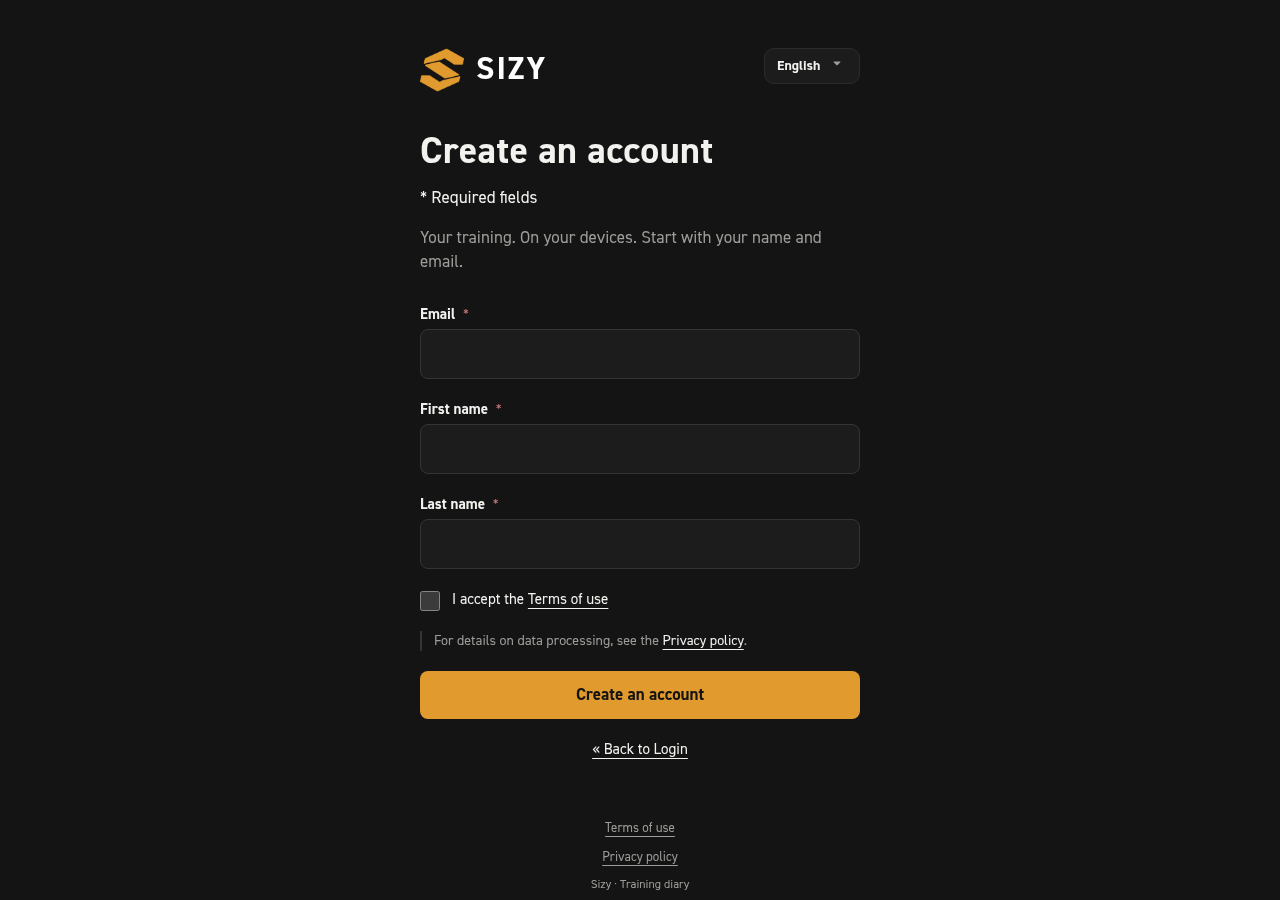
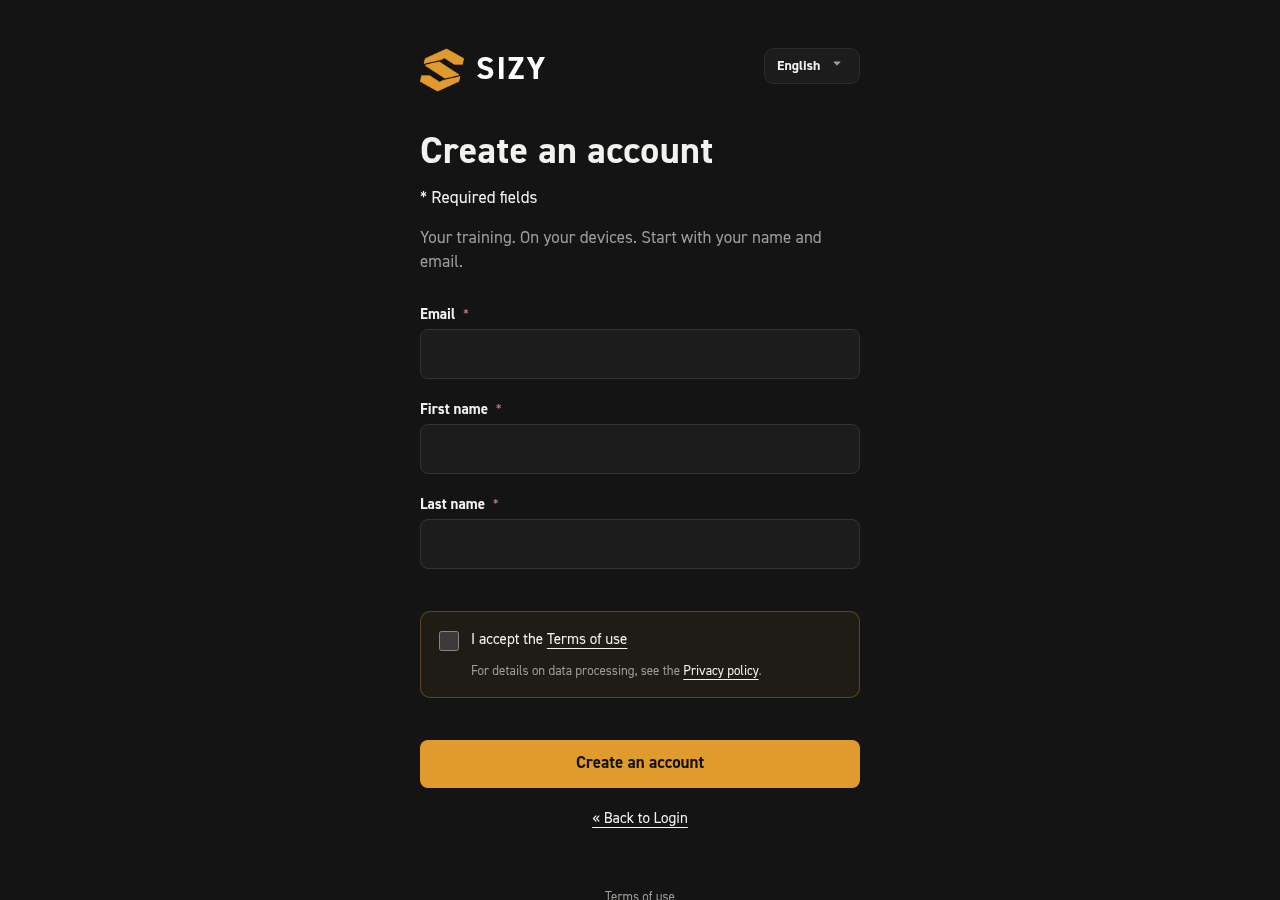
refine legal dialogs and registration consent layout

Changed region(s): [[0.3125, 0.6533, 0.6875, 1.0]]

diff --git a/keycloak/themes/sizy/login/resources/js/legal-modal.js b/keycloak/themes/sizy/login/resources/js/legal-modal.js
@@ -2,34 +2,80 @@
   const scriptUrl = document.currentScript?.src;
   if (!scriptUrl) return;
   const resourceUrl = new URL('../legal/', scriptUrl);
-  const paths = new Map([
-    ['/legal/2026-11-16/terms.html', 'terms.html'],
-    ['/legal/2026-11-16/privacy.html', 'privacy.html'],
-  ]);
+  const imageUrl = new URL('../img/brand-mark.png', scriptUrl);
+  const documents = {
+    terms: { label: 'Соглашение', file: 'terms.html', path: '/legal/2026-11-16/terms.html' },
+    privacy: { label: 'Обработка данных', file: 'privacy.html', path: '/legal/2026-11-16/privacy.html' },
+  };
 
   document.addEventListener('DOMContentLoaded', () => {
     const dialog = document.createElement('dialog');
     dialog.className = 'sizy-legal-modal';
-    dialog.innerHTML = '<div class="sizy-legal-modal-bar"><strong></strong><button type="button" aria-label="Закрыть">×</button></div><iframe title="Документ"></iframe>';
-    const title = dialog.querySelector('strong');
-    const frame = dialog.querySelector('iframe');
-    dialog.querySelector('button').addEventListener('click', () => dialog.close());
+    dialog.setAttribute('aria-label', 'Документы Sizy');
+    dialog.innerHTML = `
+      <div class="sizy-legal-modal-top">
+        <div class="sizy-legal-modal-brand"><img src="${imageUrl.href}" alt="" width="32" height="32"><span>Sizy</span><span class="sizy-legal-modal-divider"></span><span class="sizy-legal-modal-section">Документы</span></div>
+        <button type="button" class="sizy-legal-modal-close" aria-label="Закрыть окно">×</button>
+      </div>
+      <nav class="sizy-legal-modal-tabs" aria-label="Юридические документы">
+        <button type="button" data-kind="terms">Соглашение</button>
+        <button type="button" data-kind="privacy">Обработка данных</button>
+      </nav>
+      <div class="sizy-legal-modal-scroll"><p class="sizy-legal-modal-status">Загружаем документ…</p></div>`;
+    const scroll = dialog.querySelector('.sizy-legal-modal-scroll');
+    const buttons = dialog.querySelectorAll('[data-kind]');
+    let controller;
+    let currentKind;
+
+    async function open(kind) {
+      const documentInfo = documents[kind];
+      if (!documentInfo) return;
+      currentKind = kind;
+      controller?.abort();
+      const request = new AbortController();
+      controller = request;
+      buttons.forEach((button) => {
+        button.classList.toggle('active', button.dataset.kind === kind);
+        if (button.dataset.kind === kind) button.setAttribute('aria-current', 'page');
+        else button.removeAttribute('aria-current');
+      });
+      scroll.scrollTop = 0;
+      scroll.innerHTML = '<p class="sizy-legal-modal-status">Загружаем документ…</p>';
+      if (!dialog.open) dialog.showModal();
+      try {
+        const response = await fetch(new URL(documentInfo.file, resourceUrl), { signal: request.signal });
+        if (!response.ok) throw new Error('Document unavailable');
+        const html = await response.text();
+        const main = new DOMParser().parseFromString(html, 'text/html').querySelector('main');
+        if (!main) throw new Error('Document missing');
+        const article = document.createElement('article');
+        article.className = 'sizy-legal-modal-article';
+        article.innerHTML = main.innerHTML;
+        scroll.replaceChildren(article);
+      } catch {
+        if (!request.signal.aborted) {
+          scroll.innerHTML = `<p class="sizy-legal-modal-status">Не удалось открыть документ. <a href="https://sizylab.ru${documentInfo.path}" target="_blank" rel="noopener noreferrer">Открыть отдельно</a></p>`;
+        }
+      }
+    }
+
+    dialog.querySelector('.sizy-legal-modal-close').addEventListener('click', () => dialog.close());
+    dialog.addEventListener('close', () => controller?.abort());
+    buttons.forEach((button) => button.addEventListener('click', () => open(button.dataset.kind)));
     document.body.append(dialog);
 
     document.addEventListener('click', (event) => {
       if (event.defaultPrevented || event.button !== 0 || event.ctrlKey || event.metaKey || event.shiftKey || event.altKey) return;
       const anchor = event.target.closest?.('a[href]');
       if (!anchor) return;
+      if (anchor.closest('.sizy-legal-modal-status')) return;
       const url = new URL(anchor.href);
-      if (url.origin !== 'https://sizylab.ru') return;
-      const documentName = paths.get(url.pathname);
-      if (!documentName) return;
+      const kind = Object.keys(documents).find((key) =>
+        (url.origin === 'https://sizylab.ru' && url.pathname === documents[key].path) ||
+        (url.origin === resourceUrl.origin && url.pathname === new URL(documents[key].file, resourceUrl).pathname));
+      if (!kind) return;
       event.preventDefault();
-      title.textContent = anchor.textContent.trim();
-      frame.title = title.textContent;
-      frame.src = new URL(documentName, resourceUrl).href;
-      if (!dialog.open) dialog.showModal();
+      if (kind !== currentKind || !dialog.open) open(kind);
     });
-    dialog.addEventListener('close', () => { frame.removeAttribute('src'); });
   });
 })();

diff --git a/keycloak/themes/sizy/login/resources/css/legal-modal.css b/keycloak/themes/sizy/login/resources/css/legal-modal.css
@@ -1,0 +1,46 @@
+.sizy-legal-modal {
+  width: min(920px, calc(100vw - 40px));
+  height: min(830px, calc(100dvh - 40px));
+  max-width: none;
+  max-height: none;
+  padding: 0;
+  border: 1px solid #cbbfae;
+  border-radius: 20px;
+  color: #26211b;
+  background: #f8f6f2;
+  box-shadow: 0 30px 100px rgb(11 9 7 / 40%);
+  overflow: hidden;
+}
+.sizy-legal-modal::backdrop { background: rgb(13 11 9 / 68%); backdrop-filter: blur(6px); }
+.sizy-legal-modal-top { height: 72px; display: flex; align-items: center; justify-content: space-between; padding: 0 30px; background: #211e1a; color: #f8f6f2; }
+.sizy-legal-modal-brand { display: flex; align-items: center; gap: 11px; font-size: 23px; font-weight: 700; letter-spacing: -.03em; }
+.sizy-legal-modal-brand img { object-fit: contain; }
+.sizy-legal-modal-divider { width: 1px; height: 22px; margin: 0 7px; background: #62574a; }
+.sizy-legal-modal-section { color: #d8c9b5; font-size: 14px; font-weight: 500; letter-spacing: 0; }
+.sizy-legal-modal-close { width: 38px; height: 38px; display: grid; place-items: center; border: 1px solid #6b6053; border-radius: 50%; background: transparent; color: #f8f6f2; font: inherit; font-size: 25px; line-height: 1; cursor: pointer; }
+.sizy-legal-modal-close:hover { background: #41382d; }
+.sizy-legal-modal-close:focus-visible, .sizy-legal-modal-tabs button:focus-visible { outline: 2px solid #d69734; outline-offset: 3px; }
+.sizy-legal-modal-tabs { height: 56px; display: flex; gap: 28px; align-items: stretch; padding: 0 42px; border-bottom: 1px solid #e2dcd3; background: #f8f6f2; }
+.sizy-legal-modal-tabs button { position: relative; border: 0; background: transparent; color: #74695c; font: inherit; font-size: 14px; font-weight: 600; cursor: pointer; }
+.sizy-legal-modal-tabs button.active { color: #2a241c; }
+.sizy-legal-modal-tabs button.active::after { content: ''; position: absolute; height: 3px; left: 0; right: 0; bottom: -1px; background: #bd7c1e; border-radius: 3px 3px 0 0; }
+.sizy-legal-modal-scroll { height: calc(100% - 128px); overflow-y: auto; overscroll-behavior: contain; }
+.sizy-legal-modal-article { max-width: 760px; margin: 0 auto; padding: 43px 48px 80px; font: 16px/1.7 system-ui, sans-serif; }
+.sizy-legal-modal-article h1 { max-width: 18ch; margin: 0 0 22px; color: #211e1a; font-size: clamp(30px, 4vw, 42px); font-weight: 700; line-height: 1.13; letter-spacing: -.035em; }
+.sizy-legal-modal-article h2 { margin: 43px 0 16px; padding-top: 23px; border-top: 1px solid #e4ddd2; color: #30291e; font-size: 21px; font-weight: 700; line-height: 1.35; letter-spacing: -.02em; }
+.sizy-legal-modal-article p { margin: 0 0 17px; color: #4a433a; }
+.sizy-legal-modal-article a, .sizy-legal-modal-status a { color: #8b540b; text-underline-offset: 3px; }
+.sizy-legal-modal-article a:hover, .sizy-legal-modal-status a:hover { color: #603805; }
+.sizy-legal-modal-article ul, .sizy-legal-modal-article ol { padding-left: 25px; color: #4a433a; }
+.sizy-legal-modal-article li { margin: 8px 0; }
+.sizy-legal-modal-status { margin: 60px 48px; color: #65594b; }
+@media (max-width: 600px) {
+  .sizy-legal-modal { width: 100vw; height: 100dvh; border: 0; border-radius: 0; }
+  .sizy-legal-modal-top { height: 64px; padding: 0 20px; }
+  .sizy-legal-modal-brand { font-size: 20px; }
+  .sizy-legal-modal-tabs { height: 53px; gap: 24px; padding: 0 22px; }
+  .sizy-legal-modal-scroll { height: calc(100% - 117px); }
+  .sizy-legal-modal-article { padding: 32px 24px 64px; font-size: 15px; }
+  .sizy-legal-modal-article h2 { margin-top: 35px; font-size: 19px; }
+  .sizy-legal-modal-status { margin: 40px 24px; }
+}

diff --git a/keycloak/themes/sizy/login/resources/legal/legal.css b/keycloak/themes/sizy/login/resources/legal/legal.css
@@ -1,58 +1,24 @@
-:root {
-  color-scheme: dark;
-  font:
-    16px/1.65 system-ui,
-    sans-serif;
-  background: #181817;
-  color: #ece9e3;
-}
-* {
-  box-sizing: border-box;
-}
-body {
-  max-width: 800px;
-  margin: 0 auto;
-  padding: 24px 24px 80px;
-}
-a {
-  color: #f3b456;
-  text-underline-offset: 3px;
-}
-a:focus-visible {
-  outline: 2px solid #f3b456;
-  outline-offset: 4px;
-}
-nav,
-footer {
-  display: flex;
-  flex-wrap: wrap;
-  gap: 18px;
-  border-bottom: 1px solid #4c4943;
-  padding: 12px 0 18px;
-}
-footer {
-  border-top: 1px solid #4c4943;
-  border-bottom: 0;
-  margin-top: 48px;
-}
-h1 {
-  font-size: clamp(2rem, 6vw, 2.8rem);
-  line-height: 1.2;
-  margin: 48px 0 20px;
-}
-h2 {
-  font-size: 1.4rem;
-  margin-top: 42px;
-}
-p,
-li {
-  max-width: 75ch;
-}
-li {
-  margin: 10px 0;
-}
-@media (max-width: 480px) {
-  body {
-    padding: 16px 18px 60px;
-  }
+:root { color-scheme: light; background: #f8f6f2; color: #28231c; font: 16px/1.7 system-ui, sans-serif; }
+* { box-sizing: border-box; }
+body { max-width: 860px; margin: 0 auto; padding: 0 42px 90px; }
+nav { display: flex; align-items: center; flex-wrap: wrap; gap: 25px; min-height: 76px; border-bottom: 1px solid #ded7cb; }
+nav a:first-child { margin-right: auto; color: #242019; font-size: 24px; font-weight: 750; letter-spacing: -.04em; text-decoration: none; }
+nav a:not(:first-child) { color: #65594a; font-size: 14px; font-weight: 600; text-decoration: none; }
+nav a:hover { color: #9a631d; }
+main { padding: 55px 0 0; }
+h1 { max-width: 18ch; margin: 0 0 28px; color: #211e1a; font-size: clamp(34px, 6vw, 48px); line-height: 1.1; letter-spacing: -.04em; }
+h2 { margin: 48px 0 17px; padding-top: 26px; border-top: 1px solid #e1d9ce; color: #30291e; font-size: 22px; line-height: 1.35; letter-spacing: -.02em; }
+p, li { max-width: 74ch; color: #484139; }
+p { margin: 0 0 18px; }
+li { margin: 8px 0; }
+a { color: #89520c; text-underline-offset: 3px; }
+a:hover { color: #613604; }
+a:focus-visible { outline: 2px solid #b77818; outline-offset: 3px; }
+footer { display: flex; flex-wrap: wrap; justify-content: space-between; gap: 16px; margin-top: 60px; padding-top: 24px; border-top: 1px solid #e1d9ce; color: #786d60; font-size: 14px; }
+@media (max-width: 600px) {
+  body { padding: 0 24px 70px; font-size: 15px; }
+  nav { gap: 12px 20px; padding: 15px 0; }
+  nav a:first-child { width: 100%; }
+  main { padding-top: 35px; }
+  h2 { margin-top: 38px; font-size: 19px; }
 }

diff --git a/keycloak/themes/sizy/login/resources/css/sizy-brand-v2.css b/keycloak/themes/sizy/login/resources/css/sizy-brand-v2.css
@@ -271,6 +271,19 @@ select:focus-visible {
   gap: 12px;
   font-size: 15px;
 }
+.sizy-consent-group {
+  margin: 22px 0;
+  padding: 17px 18px 15px;
+  border: 1px solid rgba(224, 154, 45, .32);
+  border-radius: 10px;
+  background: rgba(224, 154, 45, .06);
+}
+.sizy-consent-group .sizy-data-notice {
+  margin: 12px 0 0 32px;
+  padding: 0;
+  border: 0;
+  font-size: 13px;
+}
 .sizy-consent-check input {
   appearance: auto;
   width: 20px;
@@ -474,25 +487,4 @@ select:focus-visible {
   .sizy-footer {
     margin-top: 32px;
   }
-}
-.sizy-legal-modal {
-  width: min(900px, calc(100vw - 32px));
-  height: min(820px, calc(100dvh - 32px));
-  max-width: none;
-  max-height: none;
-  padding: 0;
-  border: 1px solid #b99d7a;
-  border-radius: 18px;
-  background: #f7f2eb;
-  box-shadow: 0 24px 80px rgb(24 17 11 / 35%);
-  overflow: hidden;
-}
-.sizy-legal-modal::backdrop { background: rgb(18 14 11 / 68%); backdrop-filter: blur(4px); }
-.sizy-legal-modal-bar { display: flex; align-items: center; justify-content: space-between; gap: 16px; min-height: 70px; padding: 14px 24px; background: #252017; color: #faf5ed; }
-.sizy-legal-modal-bar strong { font-size: 20px; }
-.sizy-legal-modal-bar button { display: grid; place-items: center; width: 38px; height: 38px; border: 1px solid #76664f; border-radius: 50%; background: transparent; color: inherit; font-size: 27px; cursor: pointer; }
-.sizy-legal-modal iframe { display: block; width: 100%; height: calc(100% - 70px); border: 0; background: #f7f2eb; }
-@media (max-width: 600px) {
-  .sizy-legal-modal { width: 100vw; height: 100dvh; border: 0; border-radius: 0; }
-  .sizy-legal-modal-bar { padding: 12px 16px; }
 }
